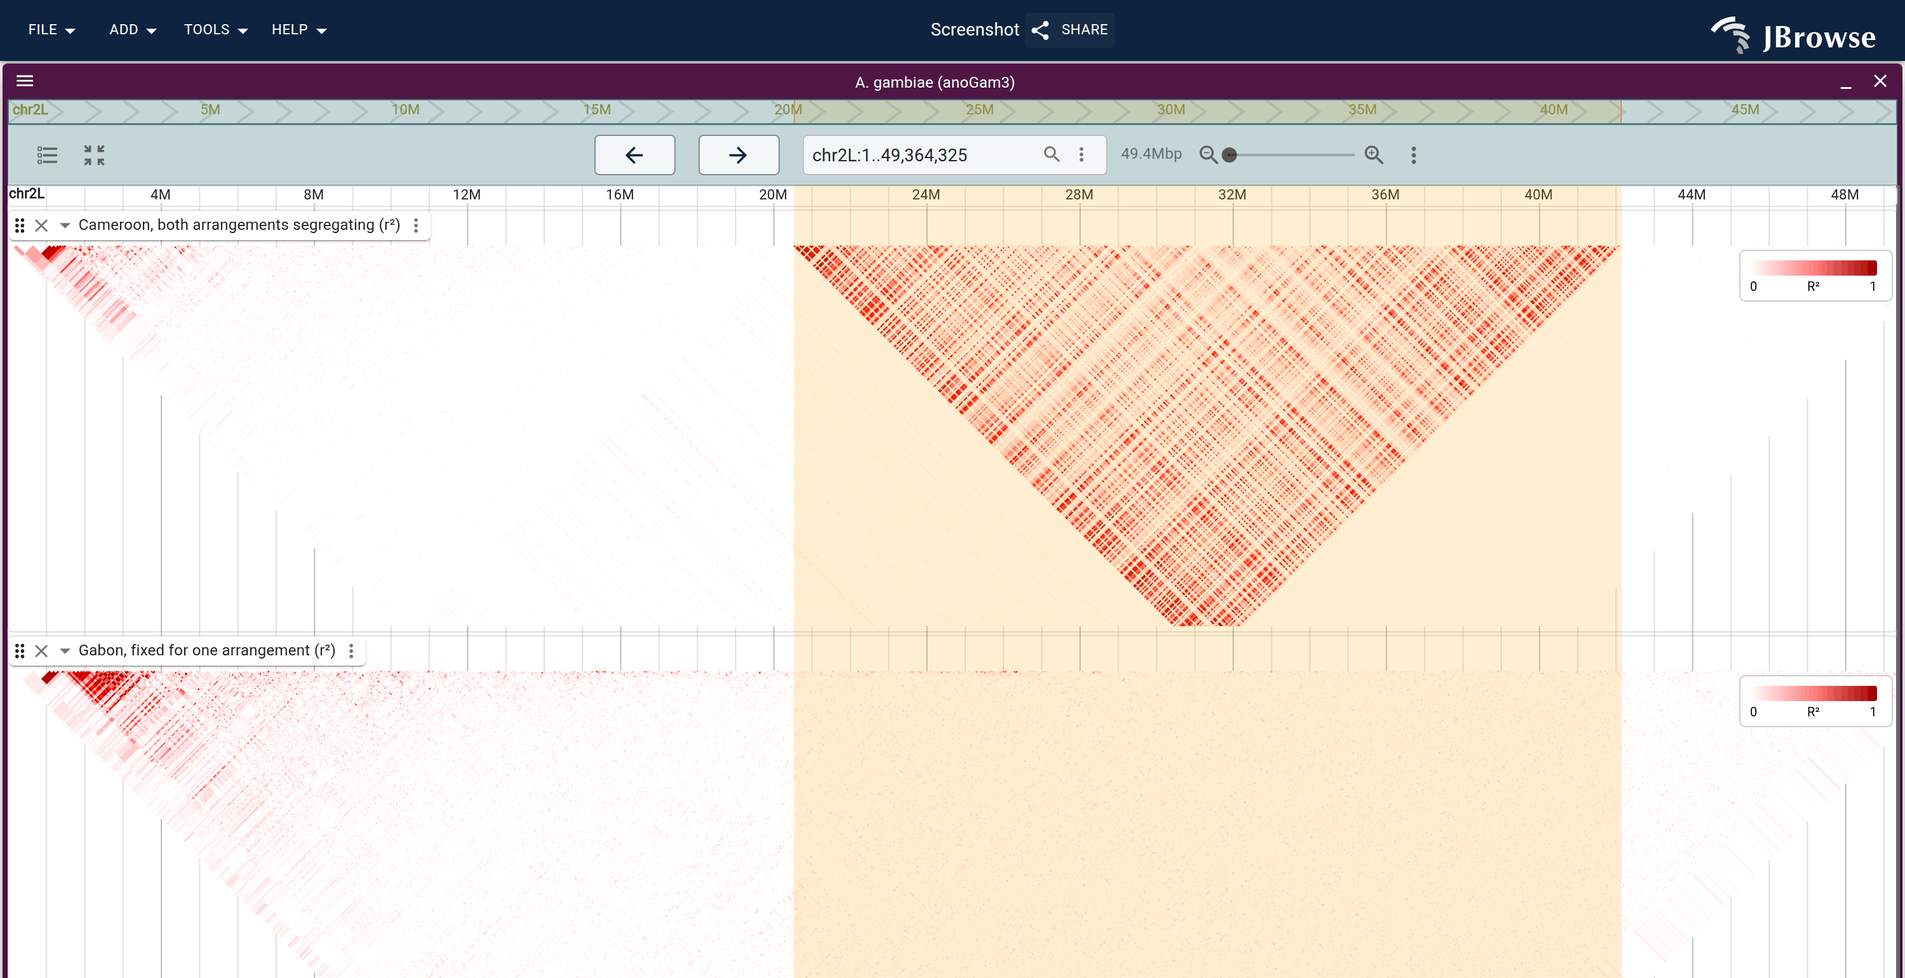
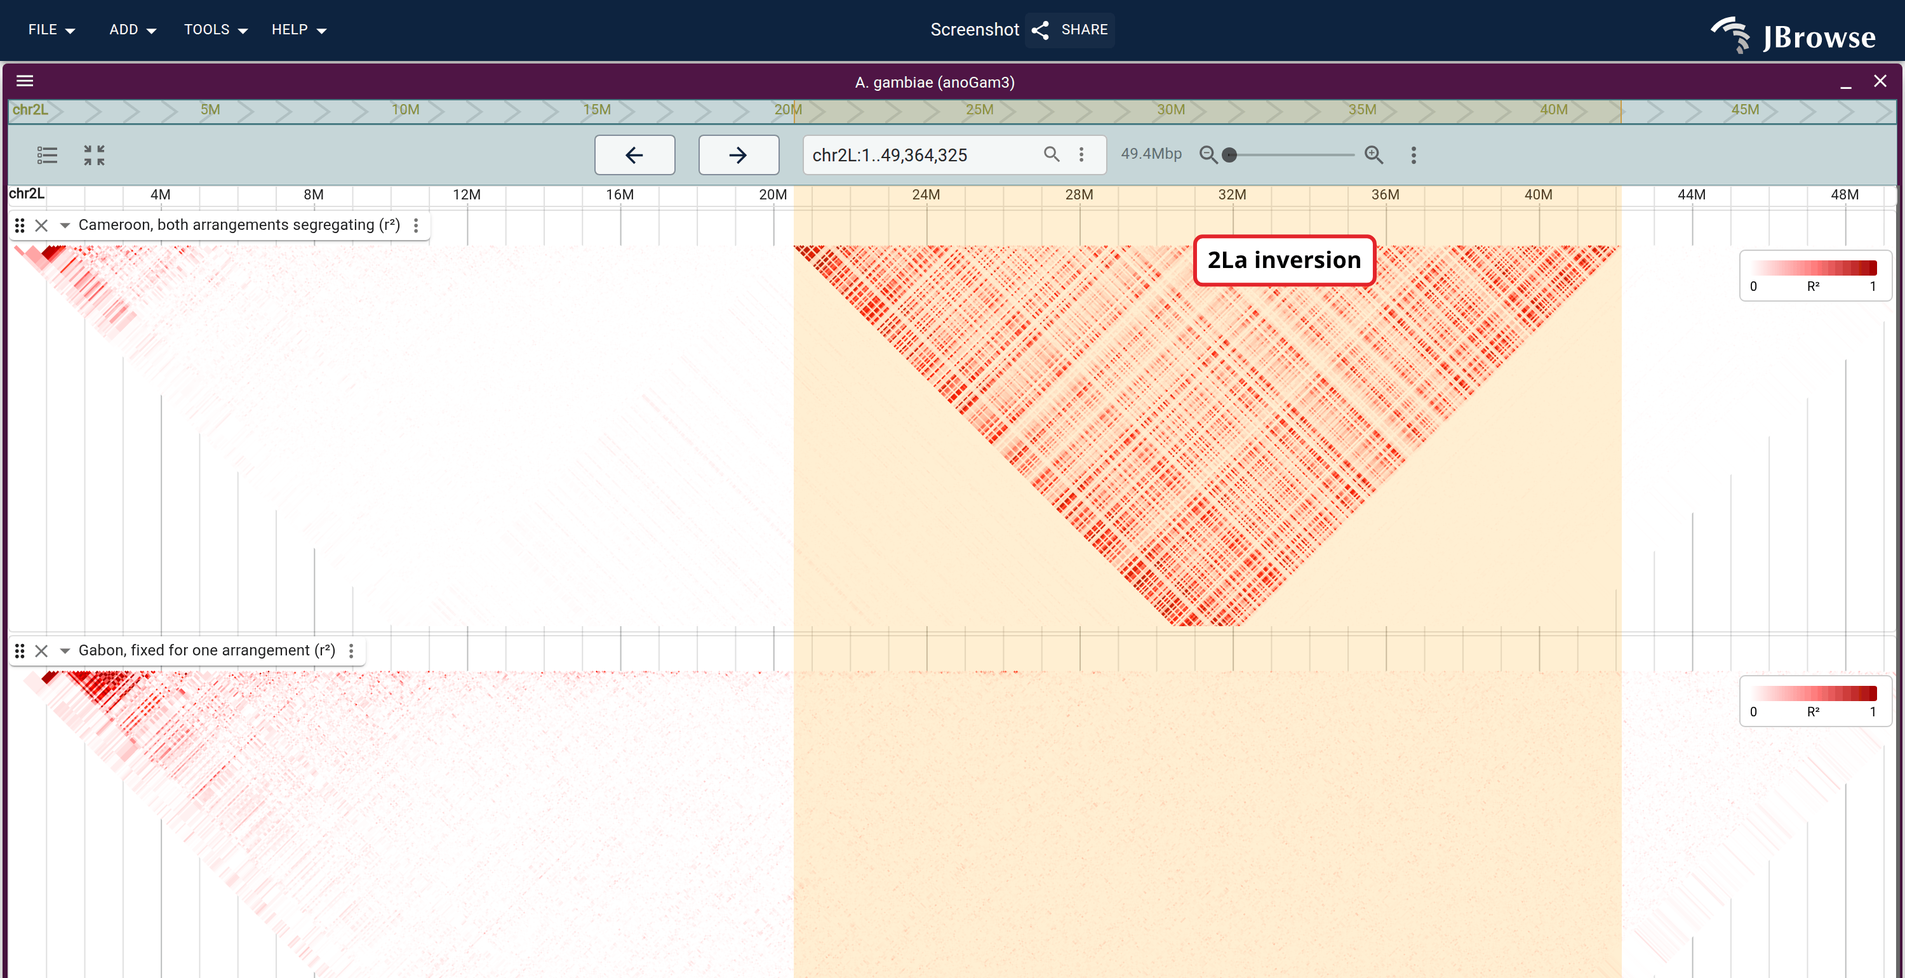
docs(ld): show the pooling mistake, label the inversion, wait on a real signal
Three changes, all aimed at figures that carry their own meaning.

A pooled-vs-panel figure replaces a prose claim with evidence. The page
said pooling "averages the correlation away"; now the same locus, window
and MAF floor appear twice, differing only in which samples went in, and
the block visibly breaks into a mosaic with the recombination curve spiky
throughout. This is deliberately a contrast between two ANALYSIS choices
rather than between two groups: the reader should leave with "subset your
VCF", which is a mistake they will actually make. Stacking two human
population panels would teach the same statistics while making the
subject of the picture a comparison between peoples. The
population-specific-sweep lesson is carried by the Anopheles figure,
where the populations are mosquitoes.

The 2La band is now labelled on-image, anchored to its own locus rather
than hand-positioned, so the arm figure reads without its caption (which
is what a gallery thumbnail needs). The anchor locus must use the
assembly's canonical chr2L; a bare 2L resolves to nothing and fails the
spec outright, which is how this was caught.

Both LD specs now wait on `data-display-phase=ready` instead of a settle
duration. No plugin change was needed: DisplayChrome already publishes
it, and its source comment warns that the sibling `-done` testid is
canvasDrawn, i.e. FIRST PAINT, which flips on an empty canvas while the
fetch is still in flight. A `-done` wait would have screenshot a blank
[…]

Changed region(s): [[0.62, 0.2182, 0.744, 0.3117]]

diff --git a/website/src/lib/galleryLinks.generated.ts b/website/src/lib/galleryLinks.generated.ts
@@ -128,6 +128,8 @@ export const specSessionUrls: Record<string, string> = {
   "methylation/arabidopsis_wgbs_contexts": "?config=test_data/arabidopsis_methylation/config_emseq_bisulfite.json&session=spec-%7B%22sessionTracks%22%3A%5B%7B%22type%22%3A%22AlignmentsTrack%22%2C%22trackId%22%3A%22arabidopsis_wgbs_cg%22%2C%22name%22%3A%22Per-read%20WGBS%20%E2%80%94%20CpG%20context%22%2C%22assemblyNames%22%3A%5B%22arabidopsis%22%5D%2C%22adapter%22%3A%7B%22type%22%3A%22CramAdapter%22%2C%22uri%22%3A%22https%3A%2F%2Fjbrowse.org%2Fdemos%2Fbisulfite%2Farabidopsis_wgbs_bisulfite.cram%22%7D%7D%2C%7B%22type%22%3A%22AlignmentsTrack%22%2C%22trackId%22%3A%22arabidopsis_wgbs_chg%22%2C%22name%22%3A%22Per-read%20WGBS%20%E2%80%94%20CHG%20context%22%2C%22assemblyNames%22%3A%5B%22arabidopsis%22%5D%2C%22adapter%22%3A%7B%22type%22%3A%22CramAdapter%22%2C%22uri%22%3A%22https%3A%2F%2Fjbrowse.org%2Fdemos%2Fbisulfite%2Farabidopsis_wgbs_bisulfite.cram%22%7D%7D%2C%7B%22type%22%3A%22AlignmentsTrack%22%2C%22trackId%22%3A%22arabidopsis_wgbs_chh%22%2C%22name%22%3A%22Per-read%20WGBS%20%E2%80%94%20CHH%20context%22%2C%22assemblyNames%22%3A%5B%22arabidopsis%22%5D%2C%22adapter%22%3A%7B%22type%22%3A%22CramAdapter%22%2C%22uri%22%3A%22https%3A%2F%2Fjbrowse.org%2Fdemos%2Fbisulfite%2Farabidopsis_wgbs_bisulfite.cram%22%7D%7D%5D%2C%22views%22%3A%5B%7B%22type%22%3A%22LinearGenomeView%22%2C%22assembly%22%3A%22arabidopsis%22%2C%22loc%22%3A%22NC_003070.9%3A4%2C398%2C000-4%2C412%2C000%22%2C%22tracks%22%3A%5B%7B%22trackId%22%3A%22arabidopsis_genes%22%7D%2C%7B%22trackId%22%3A%22arabidopsis_methyldackel%22%2C%22type%22%3A%22MultiLinearWiggleDisplay%22%2C%22defaultRendering%22%3A%22multirowxy%22%2C%22minScore%22%3A0%2C%22maxScore%22%3A100%2C%22height%22%3A170%7D%2C%7B%22trackId%22%3A%22arabidopsis_wgbs_cg%22%2C%22type%22%3A%22LinearAlignmentsDisplay%22%2C%22colorBy%22%3A%7B%22type%22%3A%22bisulfite%22%2C%22modifications%22%3A%7B%22cytosineContext%22%3A%22CG%22%7D%7D%2C%22showCoverage%22%3Afalse%2C%22heightMode%22%3A%22fixed%22%2C%22featureHeight%22%3A3%2C%22featureSpacing%22%3A0%2C%22height%22%3A90%7D%2C%7B%22trackId%22%3A%22arabidopsis_wgbs_chg%22%2C%22type%22%3A%22LinearAlignmentsDisplay%22%2C%22colorBy%22%3A%7B%22type%22%3A%22bisulfite%22%2C%22modifications%22%3A%7B%22cytosineContext%22%3A%22CHG%22%7D%7D%2C%22showCoverage%22%3Afalse%2C%22heightMode%22%3A%22fixed%22%2C%22featureHeight%22%3A3%2C%22featureSpacing%22%3A0%2C%22height%22%3A90%7D%2C%7B%22trackId%22%3A%22arabidopsis_wgbs_chh%22%2C%22type%22%3A%22LinearAlignmentsDisplay%22%2C%22colorBy%22%3A%7B%22type%22%3A%22bisulfite%22%2C%22modifications%22%3A%7B%22cytosineContext%22%3A%22CHH%22%7D%7D%2C%22showCoverage%22%3Afalse%2C%22heightMode%22%3A%22fixed%22%2C%22featureHeight%22%3A3%2C%22featureSpacing%22%3A0%2C%22height%22%3A90%7D%5D%7D%5D%7D&sessionName=Screenshot",
   "methylation/chromatin_accessibility_6ma": "?config=test_data/config_demo.json&session=spec-%7B%22sessionTracks%22%3A%5B%7B%22type%22%3A%22FeatureTrack%22%2C%22trackId%22%3A%22gencode_promoter_hg38_ucsc%22%2C%22name%22%3A%22GENCODE%20v48%20promoter%20windows%20(UCSC)%22%2C%22assemblyNames%22%3A%5B%22hg38%22%5D%2C%22adapter%22%3A%7B%22type%22%3A%22Gff3TabixAdapter%22%2C%22gffGzLocation%22%3A%7B%22uri%22%3A%22https%3A%2F%2Fjbrowse.org%2Fucsc%2Fhg38%2Fgencode.v48.promoter_windows.sorted.gff3.gz%22%2C%22locationType%22%3A%22UriLocation%22%7D%2C%22index%22%3A%7B%22location%22%3A%7B%22uri%22%3A%22https%3A%2F%2Fjbrowse.org%2Fucsc%2Fhg38%2Fgencode.v48.promoter_windows.sorted.gff3.gz.csi%22%2C%22locationType%22%3A%22UriLocation%22%7D%2C%22indexType%22%3A%22CSI%22%7D%7D%7D%5D%2C%22views%22%3A%5B%7B%22type%22%3A%22LinearGenomeView%22%2C%22assembly%22%3A%22hg38%22%2C%22loc%22%3A%22chr12%3A6%2C528%2C000-6%2C543%2C000%22%2C%22tracks%22%3A%5B%7B%22trackId%22%3A%22ncbi_refseq_109_hg38_latest%22%2C%22type%22%3A%22LinearBasicDisplay%22%2C%22geneGlyphMode%22%3A%22longestCoding%22%7D%2C%22gencode_promoter_hg38_ucsc%22%2C%7B%22trackId%22%3A%22PAY22766-nanopore%22%2C%22type%22%3A%22LinearAlignmentsDisplay%22%2C%22colorBy%22%3A%7B%22type%22%3A%22modifications%22%2C%22modifications%22%3A%7B%22shownModifications%22%3A%5B%22a%22%5D%7D%7D%2C%22heightMode%22%3A%22fixed%22%2C%22featureHeight%22%3A3%2C%22featureSpacing%22%3A0%2C%22showLegend%22%3Atrue%7D%2C%7B%22trackId%22%3A%22PBA15131-nanopore%22%2C%22type%22%3A%22LinearAlignmentsDisplay%22%2C%22colorBy%22%3A%7B%22type%22%3A%22modifications%22%2C%22modifications%22%3A%7B%22shownModifications%22%3A%5B%22a%22%5D%7D%7D%2C%22heightMode%22%3A%22fixed%22%2C%22featureHeight%22%3A3%2C%22featureSpacing%22%3A0%7D%5D%7D%5D%7D&sessionName=Screenshot",
   "methylation/hg002_snrpn_combined": "?config=test_data/config_demo.json&session=spec-%7B%22views%22%3A%5B%7B%22type%22%3A%22LinearGenomeView%22%2C%22assembly%22%3A%22hg38%22%2C%22loc%22%3A%22chr15%3A24%2C948%2C000-24%2C962%2C000%22%2C%22tracks%22%3A%5B%7B%22trackId%22%3A%22cpgisland_ucsc_hg38%22%2C%22type%22%3A%22LinearBasicDisplay%22%2C%22height%22%3A40%7D%2C%7B%22trackId%22%3A%22ncbi_refseq_109_hg38_latest%22%2C%22type%22%3A%22LinearBasicDisplay%22%2C%22geneGlyphMode%22%3A%22longestCoding%22%2C%22displayMode%22%3A%22compact%22%2C%22height%22%3A90%7D%2C%7B%22trackId%22%3A%22HG002_snrpn_modkit_hp1%22%2C%22type%22%3A%22MultiLinearWiggleDisplay%22%2C%22defaultRendering%22%3A%22multirowxy%22%2C%22minScore%22%3A0%2C%22maxScore%22%3A100%2C%22height%22%3A90%7D%2C%7B%22trackId%22%3A%22HG002_snrpn_modkit_hp2%22%2C%22type%22%3A%22MultiLinearWiggleDisplay%22%2C%22defaultRendering%22%3A%22multirowxy%22%2C%22minScore%22%3A0%2C%22maxScore%22%3A100%2C%22height%22%3A90%7D%2C%7B%22trackId%22%3A%22HG002_snrpn_5mC_reads%22%2C%22type%22%3A%22LinearAlignmentsDisplay%22%2C%22height%22%3A460%2C%22forceLoad%22%3Atrue%2C%22groupBy%22%3A%7B%22type%22%3A%22tag%22%2C%22tag%22%3A%22HP%22%7D%2C%22colorBy%22%3A%7B%22type%22%3A%22modifications%22%2C%22modifications%22%3A%7B%22fillUnmarked%22%3Atrue%7D%7D%7D%5D%7D%5D%7D&sessionName=Screenshot",
+  "ld/lct_pooled_vs_panel": "?config=https%3A%2F%2Fjbrowse.org%2Fucsc%2Fhg19%2Fconfig.json&session=spec-%7B%22sessionTracks%22%3A%5B%7B%22type%22%3A%22VariantTrack%22%2C%22trackId%22%3A%22kgp_lct_pooled%22%2C%22name%22%3A%22All%20panels%20pooled%20(r%C2%B2)%22%2C%22assemblyNames%22%3A%5B%22hg19%22%5D%2C%22adapter%22%3A%7B%22type%22%3A%22VcfTabixAdapter%22%2C%22uri%22%3A%22https%3A%2F%2Fjbrowse.org%2Fdemos%2Fpopgen%2Flct_1kg_chr2.vcf.gz%22%2C%22fetchSizeLimit%22%3A500000000%7D%2C%22displays%22%3A%5B%7B%22type%22%3A%22LDDisplay%22%2C%22showLDTriangle%22%3Atrue%2C%22showLegend%22%3Atrue%2C%22showRecombination%22%3Atrue%2C%22minorAlleleFrequencyFilter%22%3A0.35%2C%22height%22%3A330%7D%5D%7D%2C%7B%22type%22%3A%22VariantTrack%22%2C%22trackId%22%3A%22kgp_lct_panel%22%2C%22name%22%3A%22One%20population%20panel%20(r%C2%B2)%22%2C%22assemblyNames%22%3A%5B%22hg19%22%5D%2C%22adapter%22%3A%7B%22type%22%3A%22VcfTabixAdapter%22%2C%22uri%22%3A%22https%3A%2F%2Fjbrowse.org%2Fdemos%2Fpopgen%2Flct_1kg_chr2_eur.vcf.gz%22%2C%22fetchSizeLimit%22%3A500000000%7D%2C%22displays%22%3A%5B%7B%22type%22%3A%22LDDisplay%22%2C%22showLDTriangle%22%3Atrue%2C%22showLegend%22%3Atrue%2C%22showRecombination%22%3Atrue%2C%22minorAlleleFrequencyFilter%22%3A0.35%2C%22height%22%3A330%7D%5D%7D%5D%2C%22views%22%3A%5B%7B%22type%22%3A%22LinearGenomeView%22%2C%22assembly%22%3A%22hg19%22%2C%22loc%22%3A%22chr2%3A136%2C200%2C000-137%2C000%2C000%22%2C%22highlight%22%3A%5B%7B%22refName%22%3A%22chr2%22%2C%22start%22%3A136545410%2C%22end%22%3A136634000%2C%22assemblyName%22%3A%22hg19%22%7D%5D%2C%22tracks%22%3A%5B%7B%22trackId%22%3A%22kgp_lct_pooled%22%2C%22type%22%3A%22LDDisplay%22%7D%2C%7B%22trackId%22%3A%22kgp_lct_panel%22%2C%22type%22%3A%22LDDisplay%22%7D%5D%7D%5D%7D&sessionName=Screenshot",
+  "ld/anopheles_2la": "?config=https%3A%2F%2Fjbrowse.org%2Fucsc%2FanoGam3%2Fconfig.json&session=spec-%7B%22sessionTracks%22%3A%5B%7B%22type%22%3A%22LDTrack%22%2C%22trackId%22%3A%22ag1000g_2l_cmgam%22%2C%22name%22%3A%22Cameroon%2C%20both%20arrangements%20segregating%20(r%C2%B2)%22%2C%22assemblyNames%22%3A%5B%22anoGam3%22%5D%2C%22adapter%22%3A%7B%22type%22%3A%22PlinkLDTabixAdapter%22%2C%22uri%22%3A%22https%3A%2F%2Fjbrowse.org%2Fdemos%2Fpopgen%2Fag1000g_2L_CMgam.ld.gz%22%7D%2C%22displays%22%3A%5B%7B%22type%22%3A%22LDTrackDisplay%22%2C%22ldMetric%22%3A%22r2%22%2C%22useGenomicPositions%22%3Atrue%2C%22showLegend%22%3Atrue%2C%22height%22%3A300%7D%5D%7D%2C%7B%22type%22%3A%22LDTrack%22%2C%22trackId%22%3A%22ag1000g_2l_gagam%22%2C%22name%22%3A%22Gabon%2C%20fixed%20for%20one%20arrangement%20(r%C2%B2)%22%2C%22assemblyNames%22%3A%5B%22anoGam3%22%5D%2C%22adapter%22%3A%7B%22type%22%3A%22PlinkLDTabixAdapter%22%2C%22uri%22%3A%22https%3A%2F%2Fjbrowse.org%2Fdemos%2Fpopgen%2Fag1000g_2L_GAgam.ld.gz%22%7D%2C%22displays%22%3A%5B%7B%22type%22%3A%22LDTrackDisplay%22%2C%22ldMetric%22%3A%22r2%22%2C%22useGenomicPositions%22%3Atrue%2C%22showLegend%22%3Atrue%2C%22height%22%3A300%7D%5D%7D%5D%2C%22views%22%3A%5B%7B%22type%22%3A%22LinearGenomeView%22%2C%22assembly%22%3A%22anoGam3%22%2C%22loc%22%3A%22chr2L%22%2C%22highlight%22%3A%5B%7B%22refName%22%3A%22chr2L%22%2C%22start%22%3A20524058%2C%22end%22%3A42165532%2C%22assemblyName%22%3A%22anoGam3%22%7D%5D%2C%22tracks%22%3A%5B%7B%22trackId%22%3A%22ag1000g_2l_cmgam%22%2C%22type%22%3A%22LDTrackDisplay%22%7D%2C%7B%22trackId%22%3A%22ag1000g_2l_gagam%22%2C%22type%22%3A%22LDTrackDisplay%22%7D%5D%7D%5D%7D&sessionName=Screenshot",
   "ld/lct_lactase": "?config=https%3A%2F%2Fjbrowse.org%2Fucsc%2Fhg19%2Fconfig.json&session=spec-%7B%22sessionTracks%22%3A%5B%7B%22type%22%3A%22VariantTrack%22%2C%22trackId%22%3A%22kgp_lct_ld%22%2C%22name%22%3A%22LCT%20lactase-persistence%20LD%2C%201000G%20European%20panel%20(r%C2%B2)%22%2C%22assemblyNames%22%3A%5B%22hg19%22%5D%2C%22adapter%22%3A%7B%22type%22%3A%22VcfTabixAdapter%22%2C%22uri%22%3A%22https%3A%2F%2Fjbrowse.org%2Fdemos%2Fpopgen%2Flct_1kg_chr2_eur.vcf.gz%22%2C%22fetchSizeLimit%22%3A500000000%7D%2C%22displays%22%3A%5B%7B%22type%22%3A%22LDDisplay%22%2C%22showLDTriangle%22%3Atrue%2C%22showLegend%22%3Atrue%2C%22showRecombination%22%3Atrue%2C%22minorAlleleFrequencyFilter%22%3A0.35%2C%22height%22%3A510%7D%5D%7D%5D%2C%22views%22%3A%5B%7B%22type%22%3A%22LinearGenomeView%22%2C%22assembly%22%3A%22hg19%22%2C%22loc%22%3A%22chr2%3A136%2C200%2C000-137%2C000%2C000%22%2C%22highlight%22%3A%5B%7B%22refName%22%3A%22chr2%22%2C%22start%22%3A136545410%2C%22end%22%3A136634000%2C%22assemblyName%22%3A%22hg19%22%7D%5D%2C%22tracks%22%3A%5B%7B%22trackId%22%3A%22hg19-ncbiRefSeqCurated%22%2C%22type%22%3A%22LinearBasicDisplay%22%2C%22height%22%3A60%2C%22showOnlyGenes%22%3Atrue%7D%2C%7B%22trackId%22%3A%22hg19-clinvarMain%22%2C%22type%22%3A%22LinearBasicDisplay%22%2C%22height%22%3A70%2C%22jexlFiltersSetting%22%3A%5B%22jexl%3Aget(feature%2C'phenotypeList')%3D%3D'LACTASE%20PERSISTENCE'%22%5D%7D%2C%7B%22trackId%22%3A%22kgp_lct_ld%22%2C%22type%22%3A%22LDDisplay%22%7D%5D%7D%5D%7D&sessionName=Screenshot",
   "popgen/fst_in2lt_2L": "?config=https%3A%2F%2Fjbrowse.org%2Fucsc%2Fdm6%2Fconfig.json&session=spec-%7B%22sessionTracks%22%3A%5B%7B%22type%22%3A%22FeatureTrack%22%2C%22trackId%22%3A%22in2lt_inversion%22%2C%22name%22%3A%22In(2L)t%20inversion%22%2C%22assemblyNames%22%3A%5B%22dm6%22%5D%2C%22adapter%22%3A%7B%22type%22%3A%22FromConfigAdapter%22%2C%22adapterId%22%3A%22in2lt%22%2C%22features%22%3A%5B%7B%22uniqueId%22%3A%22in2lt%22%2C%22refName%22%3A%22chr2L%22%2C%22start%22%3A2225744%2C%22end%22%3A13154180%2C%22name%22%3A%22In(2L)t%22%2C%22type%22%3A%22inversion%22%7D%5D%7D%7D%2C%7B%22type%22%3A%22QuantitativeTrack%22%2C%22trackId%22%3A%22fst_in2lt%22%2C%22name%22%3A%22Fst%20(In(2L)t%20vs%20standard)%22%2C%22assemblyNames%22%3A%5B%22dm6%22%5D%2C%22adapter%22%3A%7B%22type%22%3A%22BigWigAdapter%22%2C%22uri%22%3A%22https%3A%2F%2Fjbrowse.org%2Fdemos%2Fpopgen%2Ffst_In2Lt.bw%22%7D%7D%5D%2C%22views%22%3A%5B%7B%22type%22%3A%22LinearGenomeView%22%2C%22assembly%22%3A%22dm6%22%2C%22displayedRegionNames%22%3A%5B%22chr2L%22%2C%22chr2R%22%2C%22chr3L%22%2C%22chr3R%22%2C%22chr4%22%2C%22chrX%22%5D%2C%22tracks%22%3A%5B%7B%22trackId%22%3A%22in2lt_inversion%22%2C%22type%22%3A%22LinearBasicDisplay%22%2C%22height%22%3A40%7D%2C%7B%22trackId%22%3A%22fst_in2lt%22%2C%22type%22%3A%22LinearWiggleDisplay%22%2C%22height%22%3A340%7D%5D%7D%5D%7D&sessionName=Screenshot",
   "popgen/tajimad_cyp6g1": "?config=https%3A%2F%2Fjbrowse.org%2Fucsc%2Fdm6%2Fconfig.json&session=spec-%7B%22sessionTracks%22%3A%5B%7B%22type%22%3A%22QuantitativeTrack%22%2C%22trackId%22%3A%22tajd_all%22%2C%22name%22%3A%22Tajima's%20D%20(whole%20panel)%22%2C%22assemblyNames%22%3A%5B%22dm6%22%5D%2C%22adapter%22%3A%7B%22type%22%3A%22BigWigAdapter%22%2C%22uri%22%3A%22https%3A%2F%2Fjbrowse.org%2Fdemos%2Fpopgen%2Ftajimad_all.bw%22%7D%7D%2C%7B%22type%22%3A%22QuantitativeTrack%22%2C%22trackId%22%3A%22pi_all%22%2C%22name%22%3A%22%CF%80%20(whole%20panel)%22%2C%22assemblyNames%22%3A%5B%22dm6%22%5D%2C%22adapter%22%3A%7B%22type%22%3A%22BigWigAdapter%22%2C%22uri%22%3A%22https%3A%2F%2Fjbrowse.org%2Fdemos%2Fpopgen%2Fpi_all.bw%22%7D%7D%5D%2C%22views%22%3A%5B%7B%22type%22%3A%22LinearGenomeView%22%2C%22assembly%22%3A%22dm6%22%2C%22loc%22%3A%22chr2R%3A12%2C000%2C000-12%2C400%2C000%22%2C%22highlight%22%3A%5B%7B%22refName%22%3A%22chr2R%22%2C%22start%22%3A12130000%2C%22end%22%3A12200000%2C%22assemblyName%22%3A%22dm6%22%2C%22label%22%3A%22Cyp6g1%22%7D%5D%2C%22tracks%22%3A%5B%7B%22trackId%22%3A%22tajd_all%22%2C%22type%22%3A%22LinearWiggleDisplay%22%2C%22height%22%3A200%7D%2C%7B%22trackId%22%3A%22pi_all%22%2C%22type%22%3A%22LinearWiggleDisplay%22%2C%22height%22%3A180%7D%2C%7B%22trackId%22%3A%22dm6-ncbiRefSeqCurated%22%2C%22type%22%3A%22LinearBasicDisplay%22%2C%22height%22%3A150%2C%22showOnlyGenes%22%3Atrue%2C%22featureHighlights%22%3A%5B%7B%22refName%22%3A%22chr2R%22%2C%22name%22%3A%22Cyp6g1%22%7D%2C%7B%22refName%22%3A%22chr2R%22%2C%22name%22%3A%22Cyp6g2%22%7D%5D%7D%5D%7D%5D%7D&sessionName=Screenshot",

diff --git a/website/scripts/specs/ld.ts b/website/scripts/specs/ld.ts
@@ -157,7 +157,87 @@ const TWO_LA_HIGHLIGHT = [
   { refName: 'chr2L', start: 20_524_058, end: 42_165_532, assemblyName: 'anoGam3' },
 ]
 
+// The per-population point, shown rather than asserted, WITHOUT making a figure
+// out of human population differences. Both lanes are the same locus, window,
+// MAF floor and settings; the only difference is which samples went in. Pooled
+// above (every panel in the release), one panel below.
+//
+// This is deliberately a contrast between two ANALYSIS CHOICES, not between two
+// groups: the takeaway a reader should leave with is "subset your VCF", which is
+// a mistake they will actually make when they point an LDDisplay at a whole
+// callset. Stacking two human population panels would teach the same statistics
+// while making the subject of the picture a comparison between peoples, which is
+// not what this page is for. The population-specific-sweep lesson is carried by
+// the Anopheles figure, where the populations are mosquitoes and presence or
+// absence of the arrangement is itself the result.
+const lctPanelTrack = (
+  trackId: string,
+  name: string,
+  file: string,
+) => ({
+  type: 'VariantTrack',
+  trackId,
+  name,
+  assemblyNames: ['hg19'],
+  adapter: {
+    type: 'VcfTabixAdapter',
+    uri: `https://jbrowse.org/demos/popgen/${file}`,
+    fetchSizeLimit: 500_000_000,
+  },
+  displays: [
+    {
+      type: 'LDDisplay',
+      showLDTriangle: true,
+      showLegend: true,
+      // the recombination curve is half the evidence: its dip over the block
+      // exists in the panel lane and not in the pooled one
+      showRecombination: true,
+      minorAlleleFrequencyFilter: 0.35,
+      height: 330,
+    },
+  ],
+})
+
 export const ldSpecs: ScreenshotSpec[] = [
+  {
+    mode: 'url',
+    name: 'ld/lct_pooled_vs_panel',
+    url: `${HG19_HUB}&session=${encodeSessionSpec({
+      sessionTracks: [
+        lctPanelTrack(
+          'kgp_lct_pooled',
+          'All panels pooled (r²)',
+          'lct_1kg_chr2.vcf.gz',
+        ),
+        lctPanelTrack(
+          'kgp_lct_panel',
+          'One population panel (r²)',
+          'lct_1kg_chr2_eur.vcf.gz',
+        ),
+      ],
+      views: [
+        {
+          type: 'LinearGenomeView',
+          assembly: 'hg19',
+          loc: LCT_LOC,
+          highlight: LCT_HIGHLIGHT,
+          tracks: [
+            { trackId: 'kgp_lct_pooled', type: 'LDDisplay' },
+            { trackId: 'kgp_lct_panel', type: 'LDDisplay' },
+          ],
+        },
+      ],
+    })}&sessionName=Screenshot`,
+    // same real signal as the Anopheles figure: both LD panels finished, not a
+    // duration guess
+    readySelector:
+      'body:has([data-testid="ld-display-done"][data-display-phase="ready"]):not(:has([data-testid="ld-display"])):not(:has([data-display-phase="loading"]))',
+    readyTimeout: 240000,
+    // two LD tracks (330 triangle + 50 recombination zone each) + 2 headers +
+    // ruler/overview
+    viewportHeight: 900,
+    settleMs: 8000,
+  },
   {
     mode: 'url',
     name: 'ld/anopheles_2la',
@@ -193,10 +273,40 @@ export const ldSpecs: ScreenshotSpec[] = [
         },
       ],
     })}&sessionName=Screenshot`,
+    // Wait on the model's own state, not a duration. DisplayChrome publishes
+    // `data-display-phase` for exactly this; note the sibling `-done` testid is
+    // canvasDrawn (FIRST PAINT), which flips on an empty canvas while the fetch
+    // is still in flight, so it would happily screenshot a blank triangle.
+    // Both LD panels must reach `ready`.
+    // An LD panel is `ld-display` until first paint and `ld-display-done`
+    // after, so "no bare ld-display left" means both panels painted, and "no
+    // phase=loading left" means both finished fetching.
+    readySelector:
+      'body:has([data-testid="ld-display-done"][data-display-phase="ready"]):not(:has([data-testid="ld-display"])):not(:has([data-display-phase="loading"]))',
     readyTimeout: 180000,
     // two LD tracks(300 each) + 2 headers + ruler/overview
     viewportHeight: 770,
-    settleMs: 25000,
+    settleMs: 8000,
+    annotations: [
+      {
+        type: 'text',
+        // Names the band so the figure reads without its caption, which is what
+        // a gallery thumbnail needs. Anchored to the band's own locus in the
+        // upper track rather than positioned by hand, so it tracks the layout.
+        // chr2L, not 2L: the anchor locus is resolved against the assembly's
+        // canonical names (the .ld.gz's own 2L is the adapter's business), so a
+        // bare name here resolves to nothing and fails the spec outright
+        anchor: {
+          track: 'ag1000g_2l_cmgam',
+          locus: 'chr2L:20,524,058-42,165,532',
+          fracY: 0,
+          dy: 18,
+        },
+        text: '2La inversion',
+        fontSize: 18,
+        maxWidth: 200,
+      },
+    ],
   },
   {
     mode: 'url',

diff --git a/website/docs/tutorials/linkage_disequilibrium.md b/website/docs/tutorials/linkage_disequilibrium.md
@@ -40,18 +40,20 @@ outside it, marking the block's edges.
 
 ### Compute LD within one panel
 
-Pooling panels that carry different haplotypes at different frequencies averages
-the correlation away. Run the window above over the full 1000 Genomes callset
-instead of one panel and the block turns pink and fragmented, with no dip left in
-the recombination curve. Subset first:
+r² is a correlation across whatever samples you hand it, so pointing the display
+at a whole callset is the first thing to get wrong.
+
+<Figure src="/img/ld/lct_pooled_vs_panel.png" caption="The same locus, window and MAF floor twice, differing only in which samples went in. Pooling every panel breaks the block into a mosaic and leaves the recombination curve spiky throughout; one panel resolves it into a single block with the curve flat across it."/>
+
+Nothing about the display changed between those two lanes. Subset the VCF first:
 
 ```bash
 bcftools view -S panel.samples --force-samples -Oz -o panel.vcf.gz all.vcf.gz
 tabix -p vcf panel.vcf.gz
 ```
 
-The same applies to species. A panel mixing two species invents LD that neither
-species has.
+The same applies to species, and more sharply: a panel mixing two species invents
+LD that neither species has.
 
 ## An inversion is what the triangle is best at
 
@@ -68,10 +70,11 @@ can be checked against them by eye rather than described. The lower panel is a
 control rather than a second example: that population is effectively fixed for
 one arrangement, so it has no arrangement to correlate.
 
-It is not an empty track, though, and that is the useful part. Both panels show a
-block at the low-coordinate end of the arm, where the arrangement has nothing to
-do with it. A control tells you the display works and the region is genuinely
-uncorrelated; a blank track would only tell you something failed.
+It is not an empty track, though, and that is the useful part. Both panels carry
+a block at the low-coordinate end of the arm, near the voltage-gated sodium
+channel, which has nothing to do with the arrangement. A control that still shows
+signal elsewhere tells you the display works and the banded region is genuinely
+uncorrelated; a wholly blank track would only tell you something failed.
 
 ## Will your locus show up at all?
 
